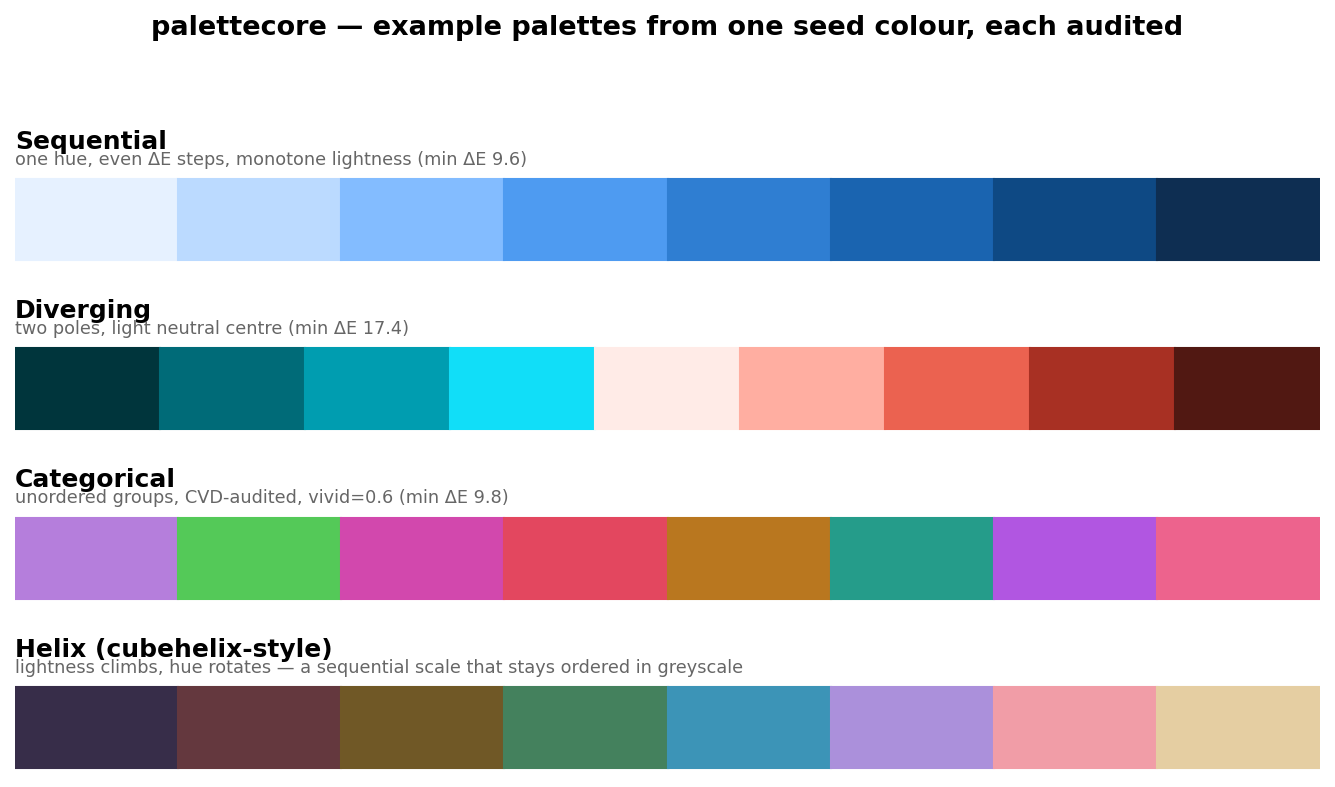
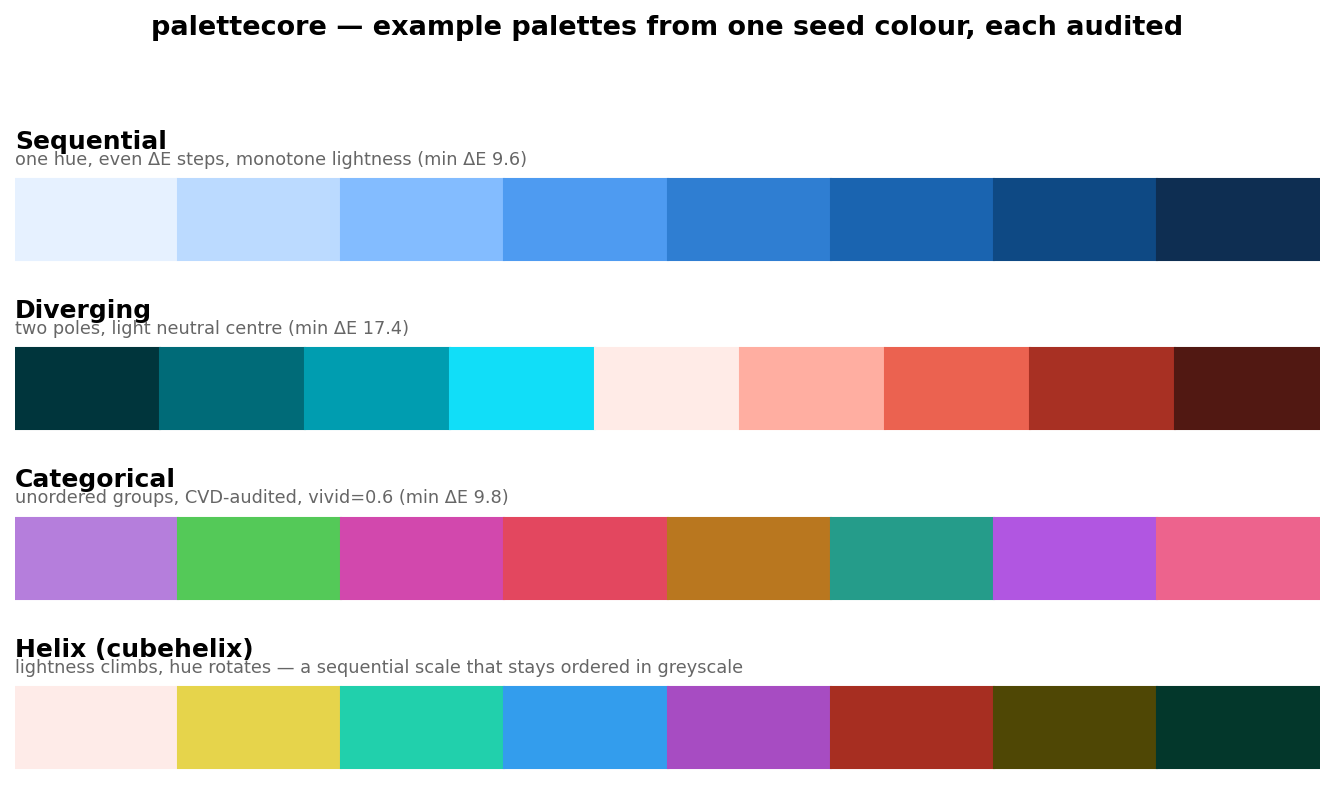
v0.4.0: helix (cubehelix) palette kind
Promotes the cubehelix from the music experiment to a first-class kind
(Green 2011, in OKLCH): lightness steps evenly while hue rotates
'rotations' full turns from the seed. A multi-hue sequential scale that
stays monotonic in lightness, so it is greyscale- and CVD-ordered - and
because the hue sweeps regardless of start, it is the robust choice when
no single seed is ideal (the seed sets only start hue + chroma).

- Python + R implementations, byte-identical parity on 15 specs incl. 3
  helix cases; R CMD check --as-cran clean
- rotations param (fractional/negative), rejected for non-helix kinds so
  it can't be silently ignored; composes with vividness and anchor=exact
- audited in the sequential family (adjacent dE, monotone lightness,
  greyscale, CVD, contrast); --rotations CLI flag; ggplot scales forward it
- 121 Python tests (was 109); README + SKILL document the kind; gallery
  now renders the helix row from the real API

Addresses Heidi's note that a weak seed hurt the demo: helix is the
seed-robust answer.

Changed region(s): [[0.0, 0.7929, 1.0, 0.9759]]

diff --git a/palettecore/generate.py b/palettecore/generate.py
@@ -121,6 +121,32 @@ def _sequential_path(seed_lch, n, background_rgb, samples=512, vividness=0.0):
     return rgbs[idx]
 
 
+# ------------------------------------------------------------------- helix
+
+
+def _helix_path(seed_lch, n, background_rgb, rotations=1.0, vividness=0.0):
+    """A cubehelix through OKLCH (Green 2011, made perceptual): lightness steps
+    evenly while hue rotates `rotations` full turns from the seed hue. Chroma
+    follows the per-stop gamut, so it eases off at the light and dark ends on
+    its own. Monotonic lightness by construction, so it stays ordered in
+    greyscale and under CVD; the seed sets only the start hue and chroma, which
+    is why a helix is the robust choice when no single seed is ideal."""
+    L_seed, C_seed, H_seed = (float(v) for v in seed_lch)
+    bg_is_light = np.mean(background_rgb) > 0.5
+    L_hi, L_lo = (0.955, 0.30) if bg_is_light else (0.90, 0.22)
+
+    out = np.empty((n, 3))
+    for i in range(n):
+        t = i / (n - 1)
+        L = L_hi + (L_lo - L_hi) * t
+        H = (H_seed + 360.0 * rotations * t) % 360.0
+        c_max = max_chroma(L, H)
+        c_base = min(max(C_seed, 0.08), c_max)
+        c = c_base + vividness * (0.92 * c_max - c_base)
+        out[i] = np.clip(oklab_to_srgb(oklch_to_oklab(np.array([L, c, H]))), 0, 1)
+    return out
+
+
 # -------------------------------------------------------------- categorical
 
 
@@ -226,7 +252,7 @@ def _audit(rgbs, kind, background_rgb, use, thresholds):
 
     sims = {c: np.array([simulate_cvd(x, c) for x in rgbs]) for c in CONDITIONS}
 
-    if kind in ("sequential", "diverging"):
+    if kind in ("sequential", "diverging", "helix"):
         adjacent = {"normal": [ciede2000(rgbs[i], rgbs[i + 1]) for i in range(n - 1)]}
         for c in CONDITIONS:
             adjacent[c] = [ciede2000(sims[c][i], sims[c][i + 1]) for i in range(n - 1)]
@@ -257,7 +283,7 @@ def _audit(rgbs, kind, background_rgb, use, thresholds):
 
     grey = greyscale_values(rgbs)
     diag["greyscale_luminance"] = [round(v, 3) for v in grey]
-    if kind == "sequential":
+    if kind in ("sequential", "helix"):
         diag["lightness_monotonic"] = is_monotonic(grey)
         if not is_monotonic(grey):
             warnings.append("Greyscale luminance is not monotonic — order is lost in print.")
@@ -329,11 +355,16 @@ def generate_palette(
     thresholds: dict | None = None,
     anchor: str = "path",
     vividness: float = 0.0,
+    rotations: float = 1.0,
 ) -> PaletteResult:
     """Generate an audited palette from one seed colour.
 
-    kind:      'sequential' | 'diverging' | 'categorical'
+    kind:      'sequential' | 'diverging' | 'categorical' | 'helix'
     use:       'data_fill' | 'text' | 'line' | 'UI'
+    rotations: helix only — how many full hue turns the cubehelix makes over
+               its lightness range (may be fractional or negative for the
+               other direction). Ignored, and rejected if non-default, for
+               other kinds.
     anchor:    'path' (seed defines the path; exact HEX may not appear) or
                'exact' (nearest sequential/diverging stop snapped to the seed,
                at the cost of slightly uneven spacing). Categorical palettes
@@ -349,10 +380,14 @@ def generate_palette(
     actually returned as HEX, never on internal floating-point values, so
     the audit describes exactly the palette the caller receives.
     """
-    if kind not in ("sequential", "diverging", "categorical"):
+    if kind not in ("sequential", "diverging", "categorical", "helix"):
         raise ValueError(f"Unknown palette kind: {kind!r}")
     if anchor not in ("path", "exact"):
         raise ValueError(f"Unknown anchor policy: {anchor!r}")
+    if not isinstance(rotations, (int, float)) or not np.isfinite(rotations):
+        raise ValueError(f"rotations must be a finite number, got {rotations!r}")
+    if kind != "helix" and rotations != 1.0:
+        raise ValueError("rotations only applies to kind='helix'")
     if use not in ("data_fill", "text", "line", "UI"):
         raise ValueError(
             f"Unknown use: {use!r} (expected 'data_fill', 'text', 'line' or 'UI')"
@@ -376,15 +411,18 @@ def generate_palette(
     background_rgb = hex_to_srgb(background)
 
     vividness = float(vividness)
+    rotations = float(rotations)
     if kind == "sequential":
         rgbs = _sequential_path(seed_lch, n, background_rgb, vividness=vividness)
     elif kind == "diverging":
         rgbs = _diverging(seed_lch, n, background_rgb, vividness=vividness)
+    elif kind == "helix":
+        rgbs = _helix_path(seed_lch, n, background_rgb, rotations=rotations, vividness=vividness)
     else:
         rgbs = _categorical(seed_lch, n, vividness=vividness)
 
     seed_rgb = hex_to_srgb(seed)
-    if kind in ("sequential", "diverging") and anchor == "exact":
+    if kind in ("sequential", "diverging", "helix") and anchor == "exact":
         i_near = int(np.argmin([ciede2000(c, seed_rgb) for c in rgbs]))
         rgbs[i_near] = seed_rgb
 
@@ -395,6 +433,8 @@ def generate_palette(
 
     diag, warnings = _audit(rgbs, kind, background_rgb, use, thresholds)
     diag["vividness"] = vividness
+    if kind == "helix":
+        diag["rotations"] = rotations
     diag["anchor"] = anchor if kind != "categorical" else "exact"
     diag["seed_nearest_stop_deltaE"] = round(
         min(ciede2000(c, seed_rgb) for c in rgbs), 1

diff --git a/tests/test_helix.py b/tests/test_helix.py
@@ -1,0 +1,67 @@
+"""The helix (cubehelix) kind: monotonic lightness, rotations, guards."""
+
+import numpy as np
+import pytest
+
+from palettecore.convert import hex_to_oklch
+from palettecore.generate import generate_palette
+
+
+def test_helix_basic():
+    r = generate_palette("#3C7AC0", n=8, kind="helix")
+    assert len(r.hexes) == 8
+    assert len(set(r.hexes)) == 8
+
+
+def test_helix_lightness_monotonic():
+    # the defining property: a helix stays ordered in greyscale
+    r = generate_palette("#3C7AC0", n=10, kind="helix")
+    assert r.diagnostics["lightness_monotonic"]
+
+
+def test_helix_hue_actually_rotates():
+    r = generate_palette("#3C7AC0", n=8, kind="helix", rotations=1.0)
+    hues = [hex_to_oklch(h)[2] for h in r.hexes]
+    # more than one distinct hue region visited (not a single-hue ramp)
+    assert max(hues) - min(hues) > 60
+
+
+def test_helix_records_rotations():
+    r = generate_palette("#3C7AC0", n=8, kind="helix", rotations=1.5)
+    assert r.diagnostics["rotations"] == 1.5
+
+
+def test_helix_negative_rotations_differs():
+    a = generate_palette("#3C7AC0", n=8, kind="helix", rotations=1.0)
+    b = generate_palette("#3C7AC0", n=8, kind="helix", rotations=-1.0)
+    assert a.hexes != b.hexes
+
+
+def test_helix_vividness_applies():
+    muted = generate_palette("#3C7AC0", n=8, kind="helix", vividness=0.0)
+    vivid = generate_palette("#3C7AC0", n=8, kind="helix", vividness=1.0)
+    mc = np.mean([hex_to_oklch(h)[1] for h in muted.hexes])
+    vc = np.mean([hex_to_oklch(h)[1] for h in vivid.hexes])
+    assert vc > mc
+
+
+def test_helix_anchor_exact():
+    r = generate_palette("#3C7AC0", n=8, kind="helix", anchor="exact")
+    assert "#3C7AC0" in r.hexes
+
+
+def test_rotations_rejected_for_other_kinds():
+    with pytest.raises(ValueError, match="rotations only applies"):
+        generate_palette("#3C7AC0", n=8, kind="sequential", rotations=2.0)
+
+
+@pytest.mark.parametrize("bad", [float("inf"), float("nan"), "x"])
+def test_rotations_must_be_finite(bad):
+    with pytest.raises(ValueError, match="rotations"):
+        generate_palette("#3C7AC0", n=8, kind="helix", rotations=bad)
+
+
+def test_helix_audited_like_sequential():
+    r = generate_palette("#3C7AC0", n=8, kind="helix")
+    assert "min_adjacent_deltaE" in r.diagnostics
+    assert "greyscale_luminance" in r.diagnostics

diff --git a/tools/make_gallery.py b/tools/make_gallery.py
@@ -15,29 +15,8 @@ import matplotlib.pyplot as plt
 import numpy as np
 
 from palettecore import generate_palette
-from palettecore.convert import (
-    hex_to_srgb,
-    max_chroma,
-    oklab_to_srgb,
-    oklch_to_oklab,
-    srgb_to_hex,
-)
 
 DOCS = pathlib.Path(__file__).resolve().parent.parent / "docs"
-
-
-def cubehelix_run(n=8, L_lo=0.32, L_hi=0.86, turns=1.4, h0=300.0):
-    """A helix through OKLCH: lightness climbs monotonically while hue rotates.
-    Chroma held to the per-lightness safe value so it stays in gamut."""
-    out = []
-    for i in range(n):
-        t = i / (n - 1)
-        L = L_lo + (L_hi - L_lo) * t
-        H = (h0 + 360 * turns * t) % 360
-        safe = 0.92 * min(max_chroma(L, float(h)) for h in np.linspace(0, 360, 90, endpoint=False))
-        C = min(safe, max_chroma(L, H))
-        out.append(srgb_to_hex(np.clip(oklab_to_srgb(oklch_to_oklab(np.array([L, C, H]))), 0, 1)))
-    return out
 
 
 def main():
@@ -49,8 +28,8 @@ def main():
          generate_palette("#B84A3C", n=9, kind="diverging").hexes),
         ("Categorical", "unordered groups, CVD-audited, vivid=0.6 (min ΔE 9.8)",
          generate_palette("#B57EDC", n=8, kind="categorical", vividness=0.6).hexes),
-        ("Helix (cubehelix-style)", "lightness climbs, hue rotates — a sequential scale that stays ordered in greyscale",
-         cubehelix_run(8)),
+        ("Helix (cubehelix)", "lightness climbs, hue rotates — a sequential scale that stays ordered in greyscale",
+         generate_palette("#B84A3C", n=8, kind="helix", rotations=1.4, vividness=0.4).hexes),
     ]
 
     fig, axes = plt.subplots(len(rows), 1, figsize=(9, 5.2))

diff --git a/palettecore/__main__.py b/palettecore/__main__.py
@@ -21,8 +21,12 @@ def main(argv: list[str] | None = None) -> int:
     p.add_argument("-n", type=int, default=8, help="number of colours (2-24, default 8)")
     p.add_argument(
         "--kind",
-        choices=["sequential", "diverging", "categorical"],
+        choices=["sequential", "diverging", "categorical", "helix"],
         default="sequential",
+    )
+    p.add_argument(
+        "--rotations", type=float, default=1.0,
+        help="helix only: full hue turns over the lightness range",
     )
     p.add_argument("--background", default="#FFFFFF", help="intended background HEX")
     p.add_argument(
@@ -47,6 +51,7 @@ def main(argv: list[str] | None = None) -> int:
             use=args.use,
             anchor=args.anchor,
             vividness=args.vividness,
+            rotations=args.rotations,
         )
     except ValueError as e:
         print(f"error: {e}", file=sys.stderr)

diff --git a/tools/make_fixtures.py b/tools/make_fixtures.py
@@ -37,6 +37,9 @@ PALETTES = [
     {"seed": "#B57EDC", "n": 8, "kind": "categorical", "vividness": 1.0},
     {"seed": "#B57EDC", "n": 8, "kind": "categorical", "vividness": 0.5},
     {"seed": "#3C7AC0", "n": 8, "kind": "sequential", "vividness": 1.0},
+    {"seed": "#3C7AC0", "n": 8, "kind": "helix"},
+    {"seed": "#3C7AC0", "n": 10, "kind": "helix", "rotations": 1.5},
+    {"seed": "#B84A3C", "n": 8, "kind": "helix", "rotations": -1.0, "vividness": 0.5},
 ]
 
 

diff --git a/palettecore/__init__.py b/palettecore/__init__.py
@@ -9,7 +9,7 @@ from .cvd import CONDITIONS, out_of_gamut_excursion, simulate_cvd
 from .generate import DEFAULT_THRESHOLDS, PaletteResult, generate_palette
 from .metrics import ciede2000, contrast_ratio
 
-__version__ = "0.3.0"
+__version__ = "0.4.0"
 __all__ = [
     "generate_palette",
     "PaletteResult",

diff --git a/skill/SKILL.md b/skill/SKILL.md
@@ -20,9 +20,13 @@ palettecore reports whether package-default design thresholds are met under stat
 never verify, prove, guarantee, or "WCAG compliant" as a blanket claim.
 
 ## Invariants (hard constraints)
-1. **Kind follows the data's meaning, not aesthetics.** Ordered magnitude → `sequential`.
-   Meaningful centre (zero, baseline) → `diverging`. Unordered groups → `categorical` (monotonic
-   lightness would falsely imply order). Ask if unclear.
+1. **Kind follows the data's meaning, not aesthetics.** Ordered magnitude → `sequential`
+   (single hue) or `helix` (cubehelix: lightness climbs while hue rotates, a multi-hue
+   ordered scale that stays greyscale- and CVD-safe via lightness). Meaningful centre
+   (zero, baseline) → `diverging`. Unordered groups → `categorical` (monotonic lightness
+   would falsely imply order). Ask if unclear. `helix` is also the robust pick when the
+   seed is weak or arbitrary — its hue sweeps regardless of where it starts, so seed choice
+   barely matters (tune with `rotations`, default 1.0).
 2. **Declare the use and background.** A colour that works as an area fill fails as text; the
    audit is only meaningful for the declared `background` and `use` (`data_fill` / `text` /
    `line` / `UI`).

diff --git a/README.md b/README.md
@@ -64,7 +64,7 @@ from palettecore import generate_palette
 result = generate_palette(
     seed="#8B6FC9",
     n=8,
-    kind="sequential",   # or "diverging", "categorical"
+    kind="sequential",   # or "diverging", "categorical", "helix"
     background="#FFFFFF",
     use="data_fill",     # or "text", "line", "UI"
     anchor="path",       # or "exact" — see Stated conventions
@@ -128,6 +128,16 @@ All work happens in **OKLCH** (path construction, gamut clamping) with
 - **Diverging** — two sequential halves meeting at a near-neutral light
   centre. The second pole (seed hue + 180°) is a design assumption and is
   flagged as such in the warnings.
+- **Helix** — a cubehelix (Green 2011) through OKLCH: lightness steps evenly
+  while hue rotates `rotations` full turns from the seed. Monotonic in
+  lightness by construction, so it stays ordered in greyscale and under CVD —
+  a multi-hue sequential scale. Because the hue sweeps regardless of where it
+  starts, a helix is the robust choice when no single seed is ideal: the seed
+  sets only the start hue and chroma.
+
+```python
+generate_palette("#B84A3C", n=8, kind="helix", rotations=1.4, vividness=0.4)
+```
 
 ## Stated conventions
 
